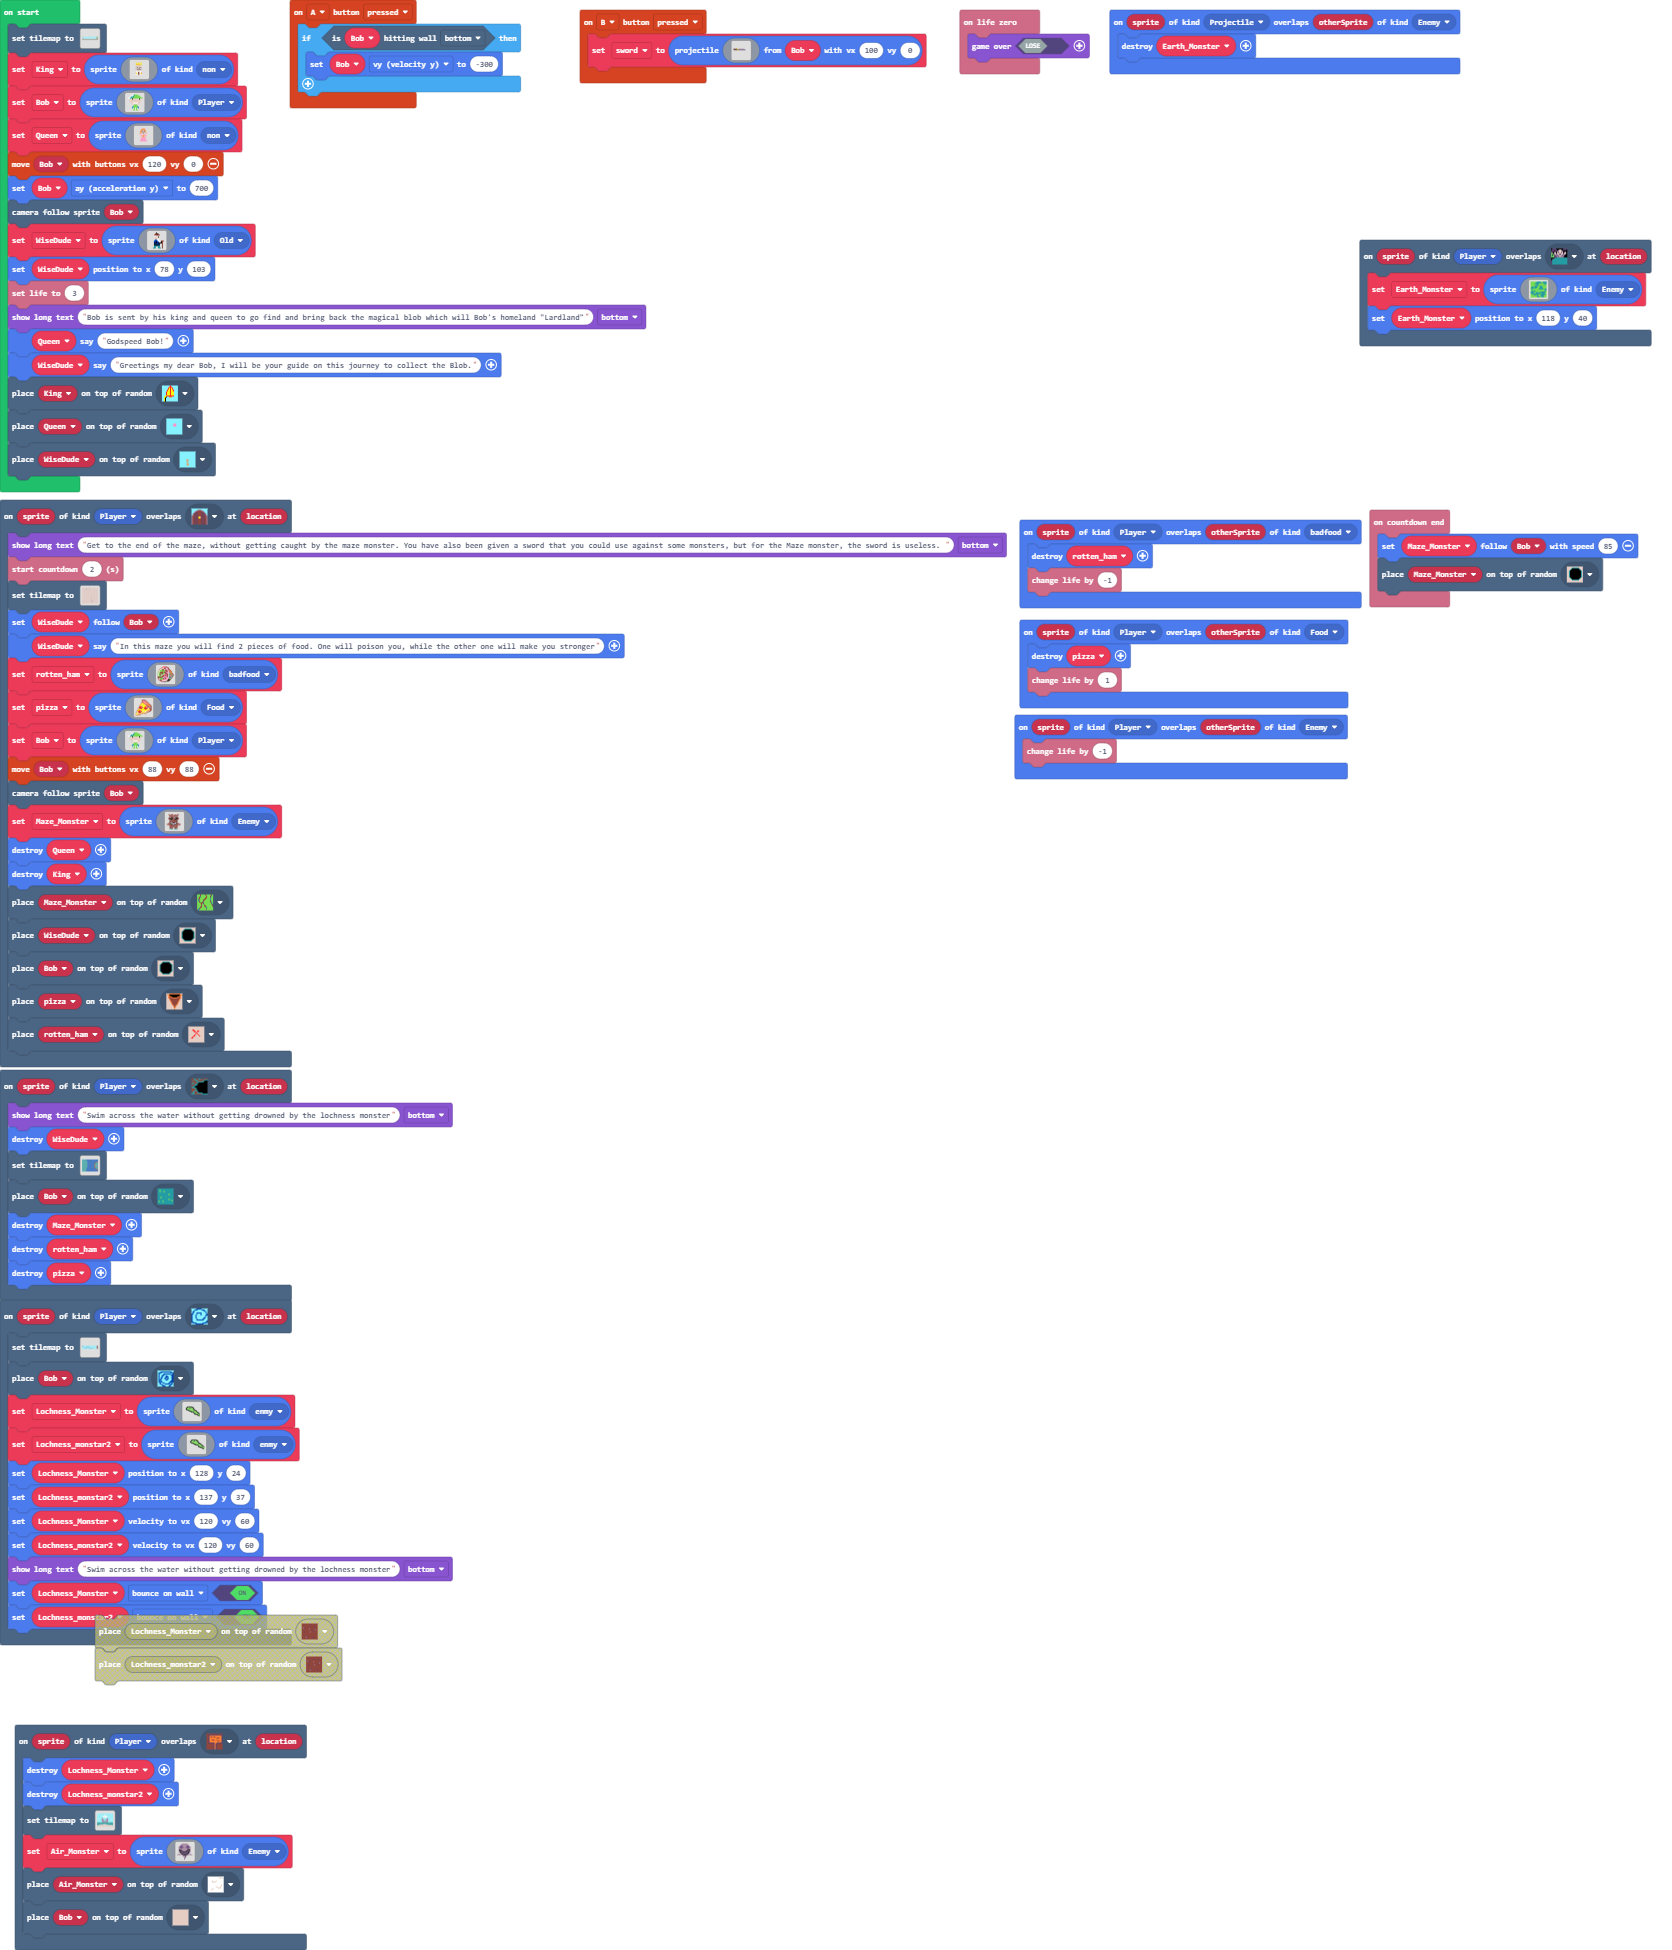
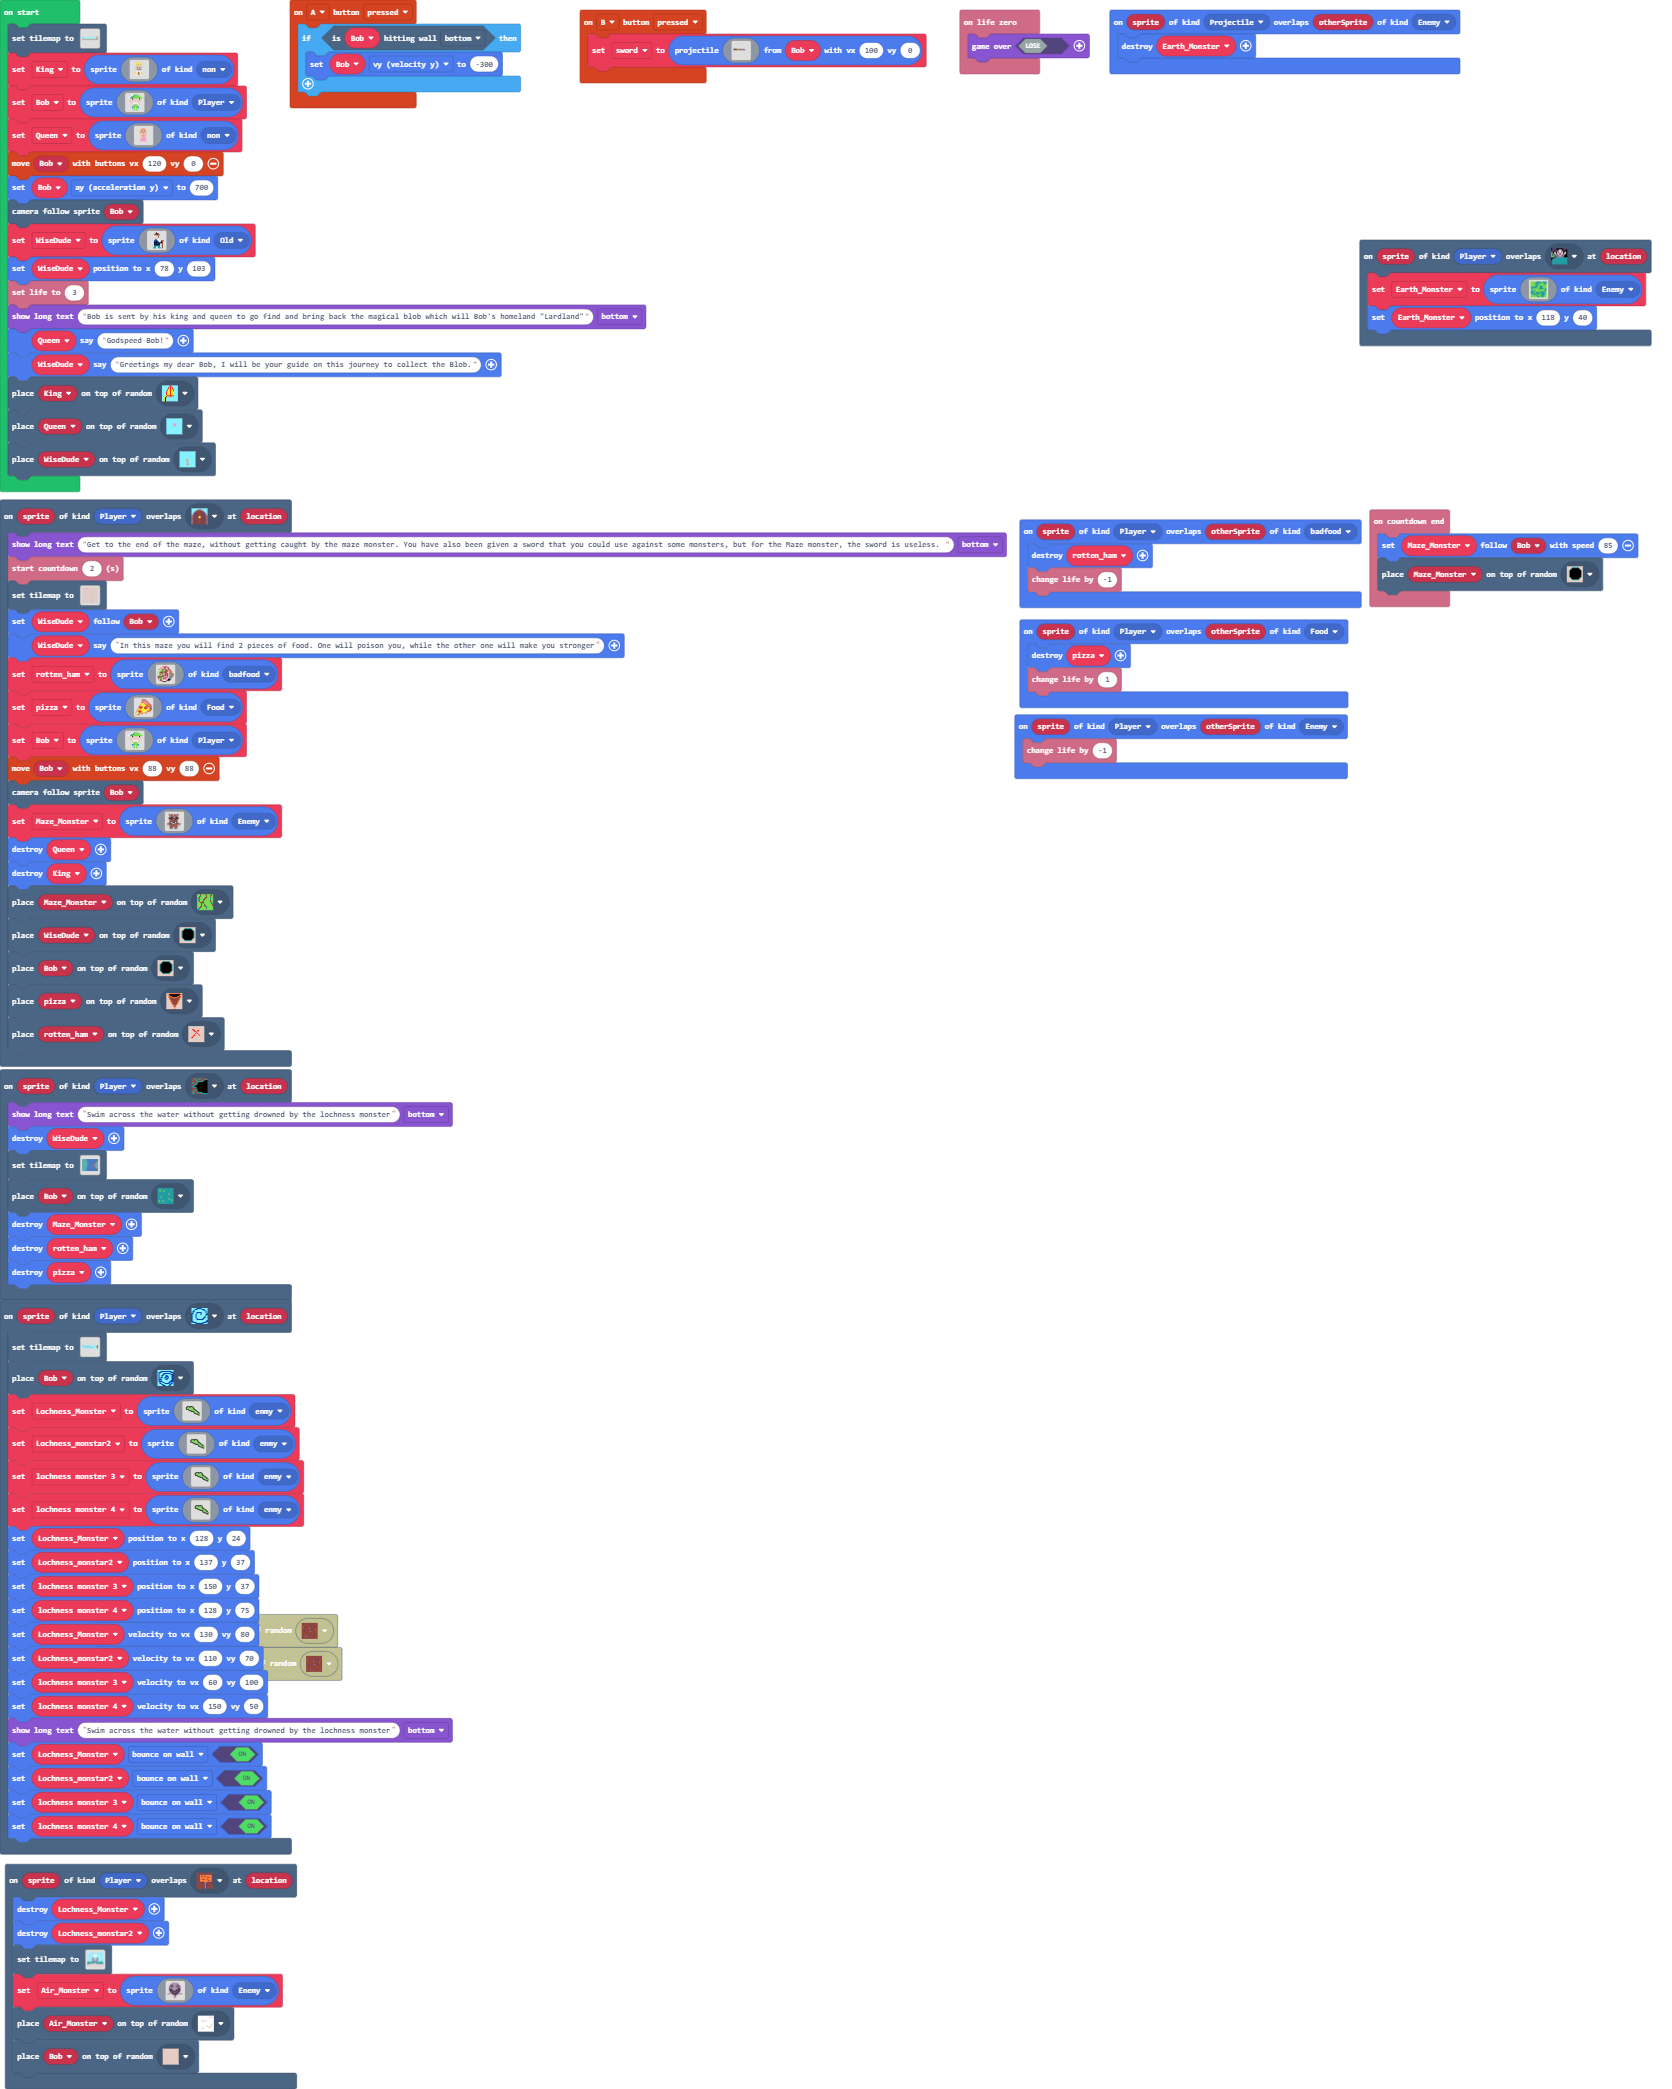
Update main.blocks, main.ts

Changed region(s): [[0.0, 0.0, 0.9952, 1.0], [0.3421, 0.0, 0.8708, 0.0615], [0.8086, 0.0923, 0.9952, 0.1846]]

diff --git a/main.ts b/main.ts
@@ -375,13 +375,55 @@ scene.onOverlapTile(SpriteKind.Player, myTiles.tile64, function (sprite, locatio
         .....................fff7
         .......................f7
         `, SpriteKind.enmy)
+    lochness_monster_3 = sprites.create(img`
+        .........................
+        .....ffffffff............
+        ....ff777c77fff..........
+        ...ff777cf7777f..........
+        ...f7777777777ff.........
+        ...ff7777777777f.........
+        ....ffff7777777fff.......
+        .......fff7777777fff.....
+        .........fff7777777f.....
+        ...........fffff7777ff...
+        ...............f77777ff..
+        ...............ff77777ff.
+        ................fff77777f
+        ..................ffff777
+        .....................fff7
+        .......................f7
+        `, SpriteKind.enmy)
+    lochness_monster_4 = sprites.create(img`
+        .........................
+        .....ffffffff............
+        ....ff777c77fff..........
+        ...ff777cf7777f..........
+        ...f7777777777ff.........
+        ...ff7777777777f.........
+        ....ffff7777777fff.......
+        .......fff7777777fff.....
+        .........fff7777777f.....
+        ...........fffff7777ff...
+        ...............f77777ff..
+        ...............ff77777ff.
+        ................fff77777f
+        ..................ffff777
+        .....................fff7
+        .......................f7
+        `, SpriteKind.enmy)
     Lochness_Monster.setPosition(128, 24)
     Lochness_monstar2.setPosition(137, 37)
-    Lochness_Monster.setVelocity(120, 60)
-    Lochness_monstar2.setVelocity(120, 60)
+    lochness_monster_3.setPosition(150, 37)
+    lochness_monster_4.setPosition(128, 75)
+    Lochness_Monster.setVelocity(130, 80)
+    Lochness_monstar2.setVelocity(110, 70)
+    lochness_monster_3.setVelocity(60, 100)
+    lochness_monster_4.setVelocity(150, 50)
     game.showLongText("Swim across the water without getting drowned by the lochness monster", DialogLayout.Bottom)
     Lochness_Monster.setFlag(SpriteFlag.BounceOnWall, true)
     Lochness_monstar2.setFlag(SpriteFlag.BounceOnWall, true)
+    lochness_monster_3.setFlag(SpriteFlag.BounceOnWall, true)
+    lochness_monster_4.setFlag(SpriteFlag.BounceOnWall, true)
 })
 sprites.onOverlap(SpriteKind.Projectile, SpriteKind.Enemy, function (sprite, otherSprite) {
     Earth_Monster.destroy()
@@ -389,6 +431,8 @@ sprites.onOverlap(SpriteKind.Projectile, SpriteKind.Enemy, function (sprite, oth
 sprites.onOverlap(SpriteKind.Player, SpriteKind.Enemy, function (sprite, otherSprite) {
     info.changeLifeBy(-1)
 })
+let lochness_monster_4: Sprite = null
+let lochness_monster_3: Sprite = null
 let Earth_Monster: Sprite = null
 let Maze_Monster: Sprite = null
 let pizza: Sprite = null
